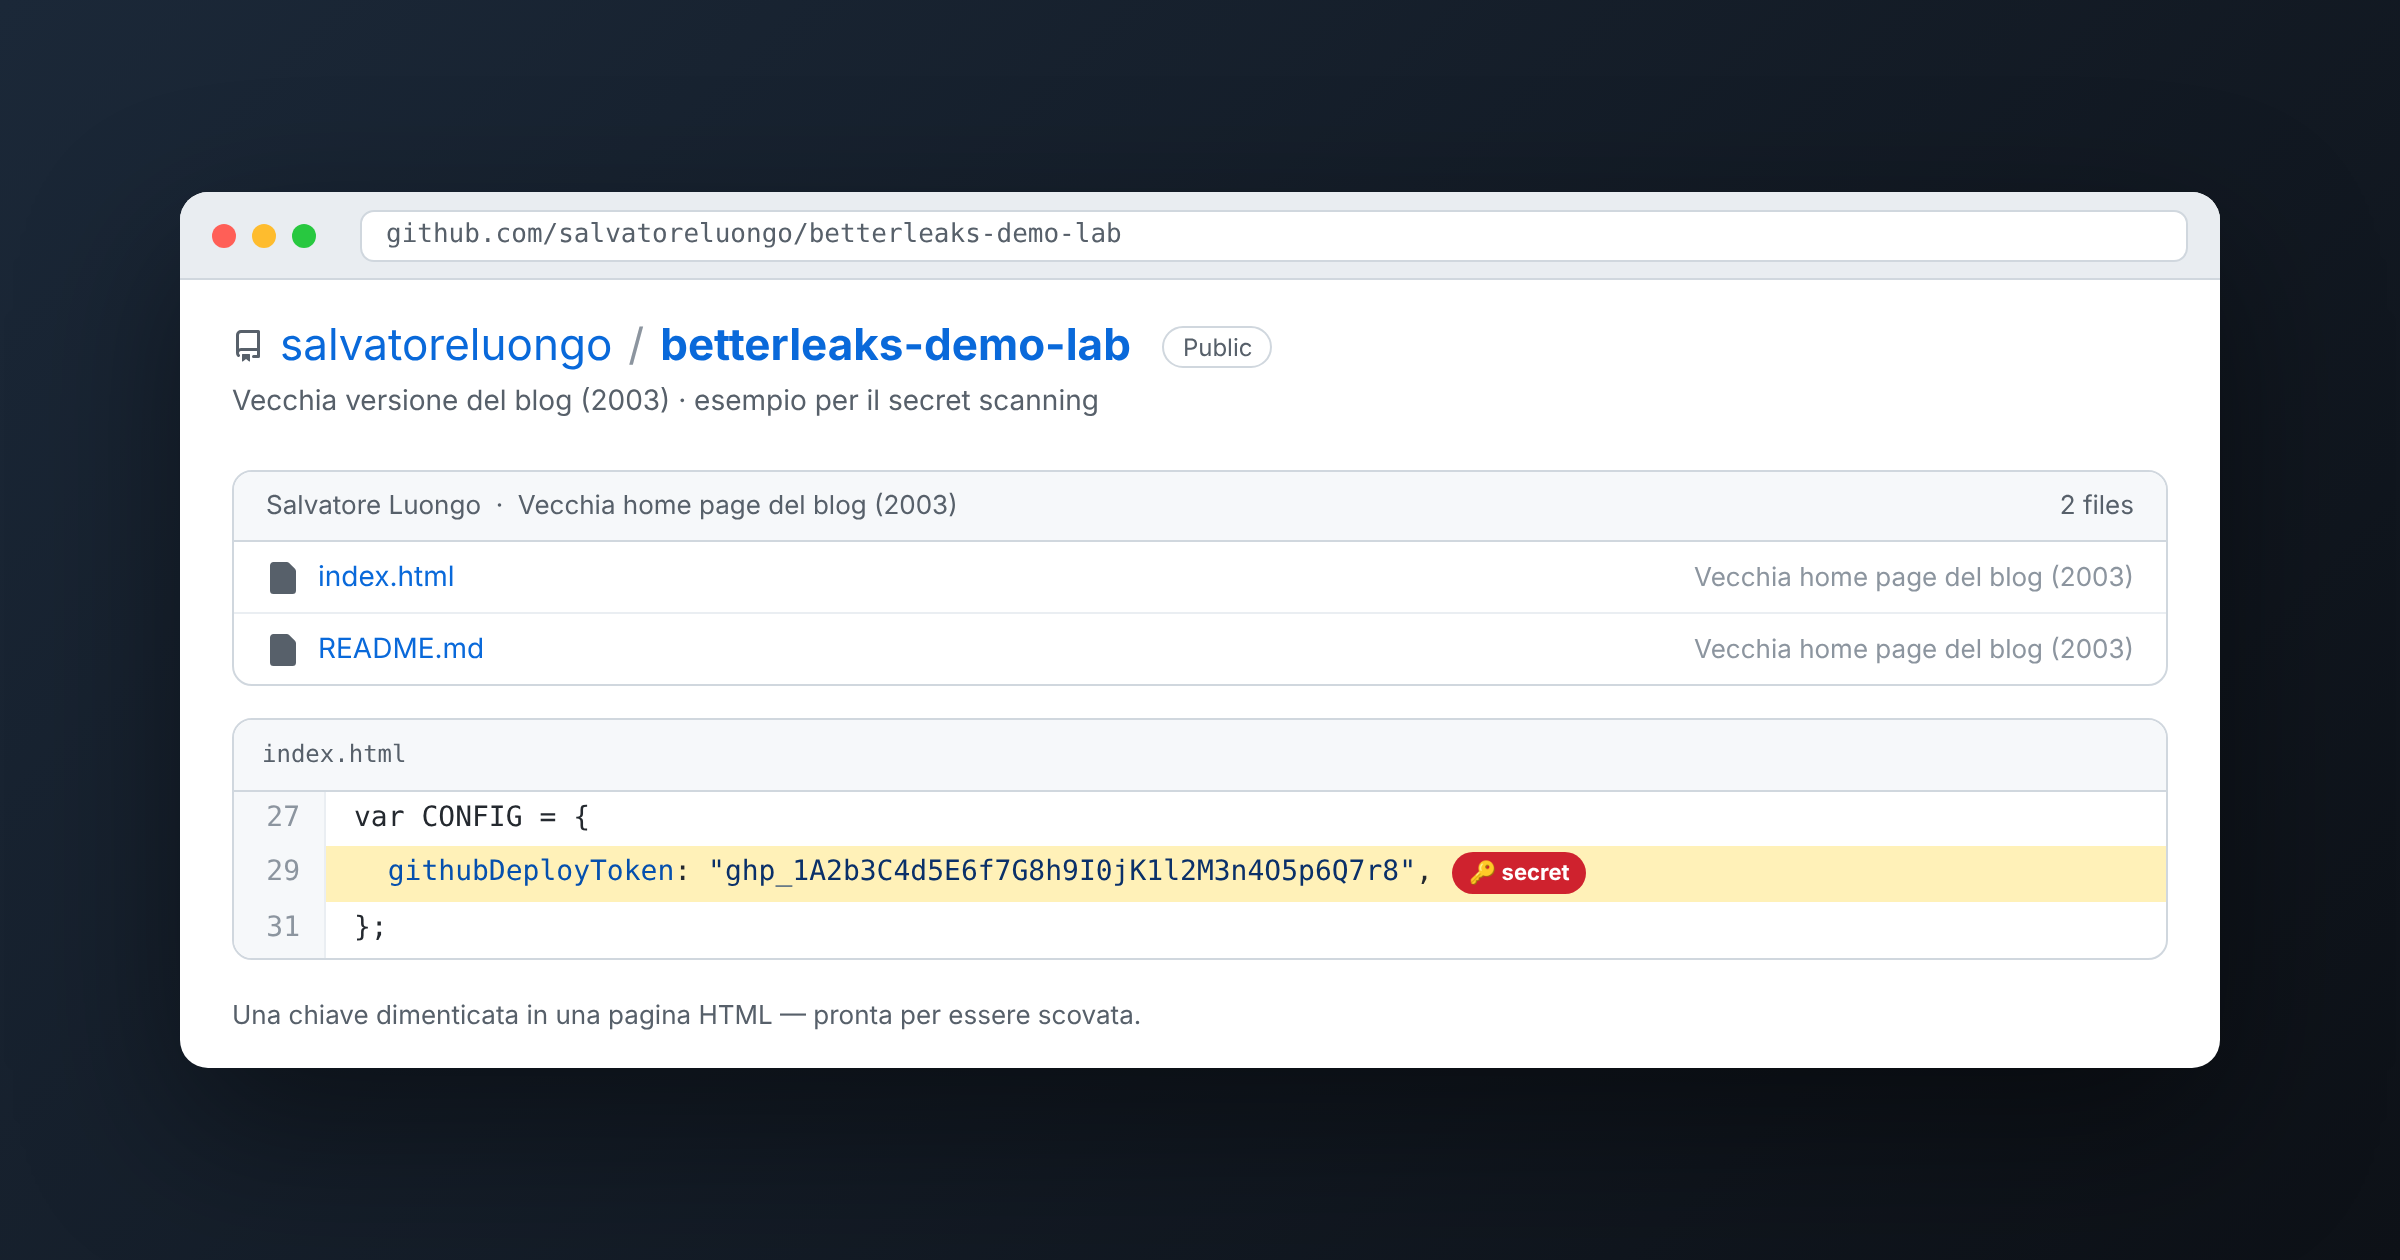
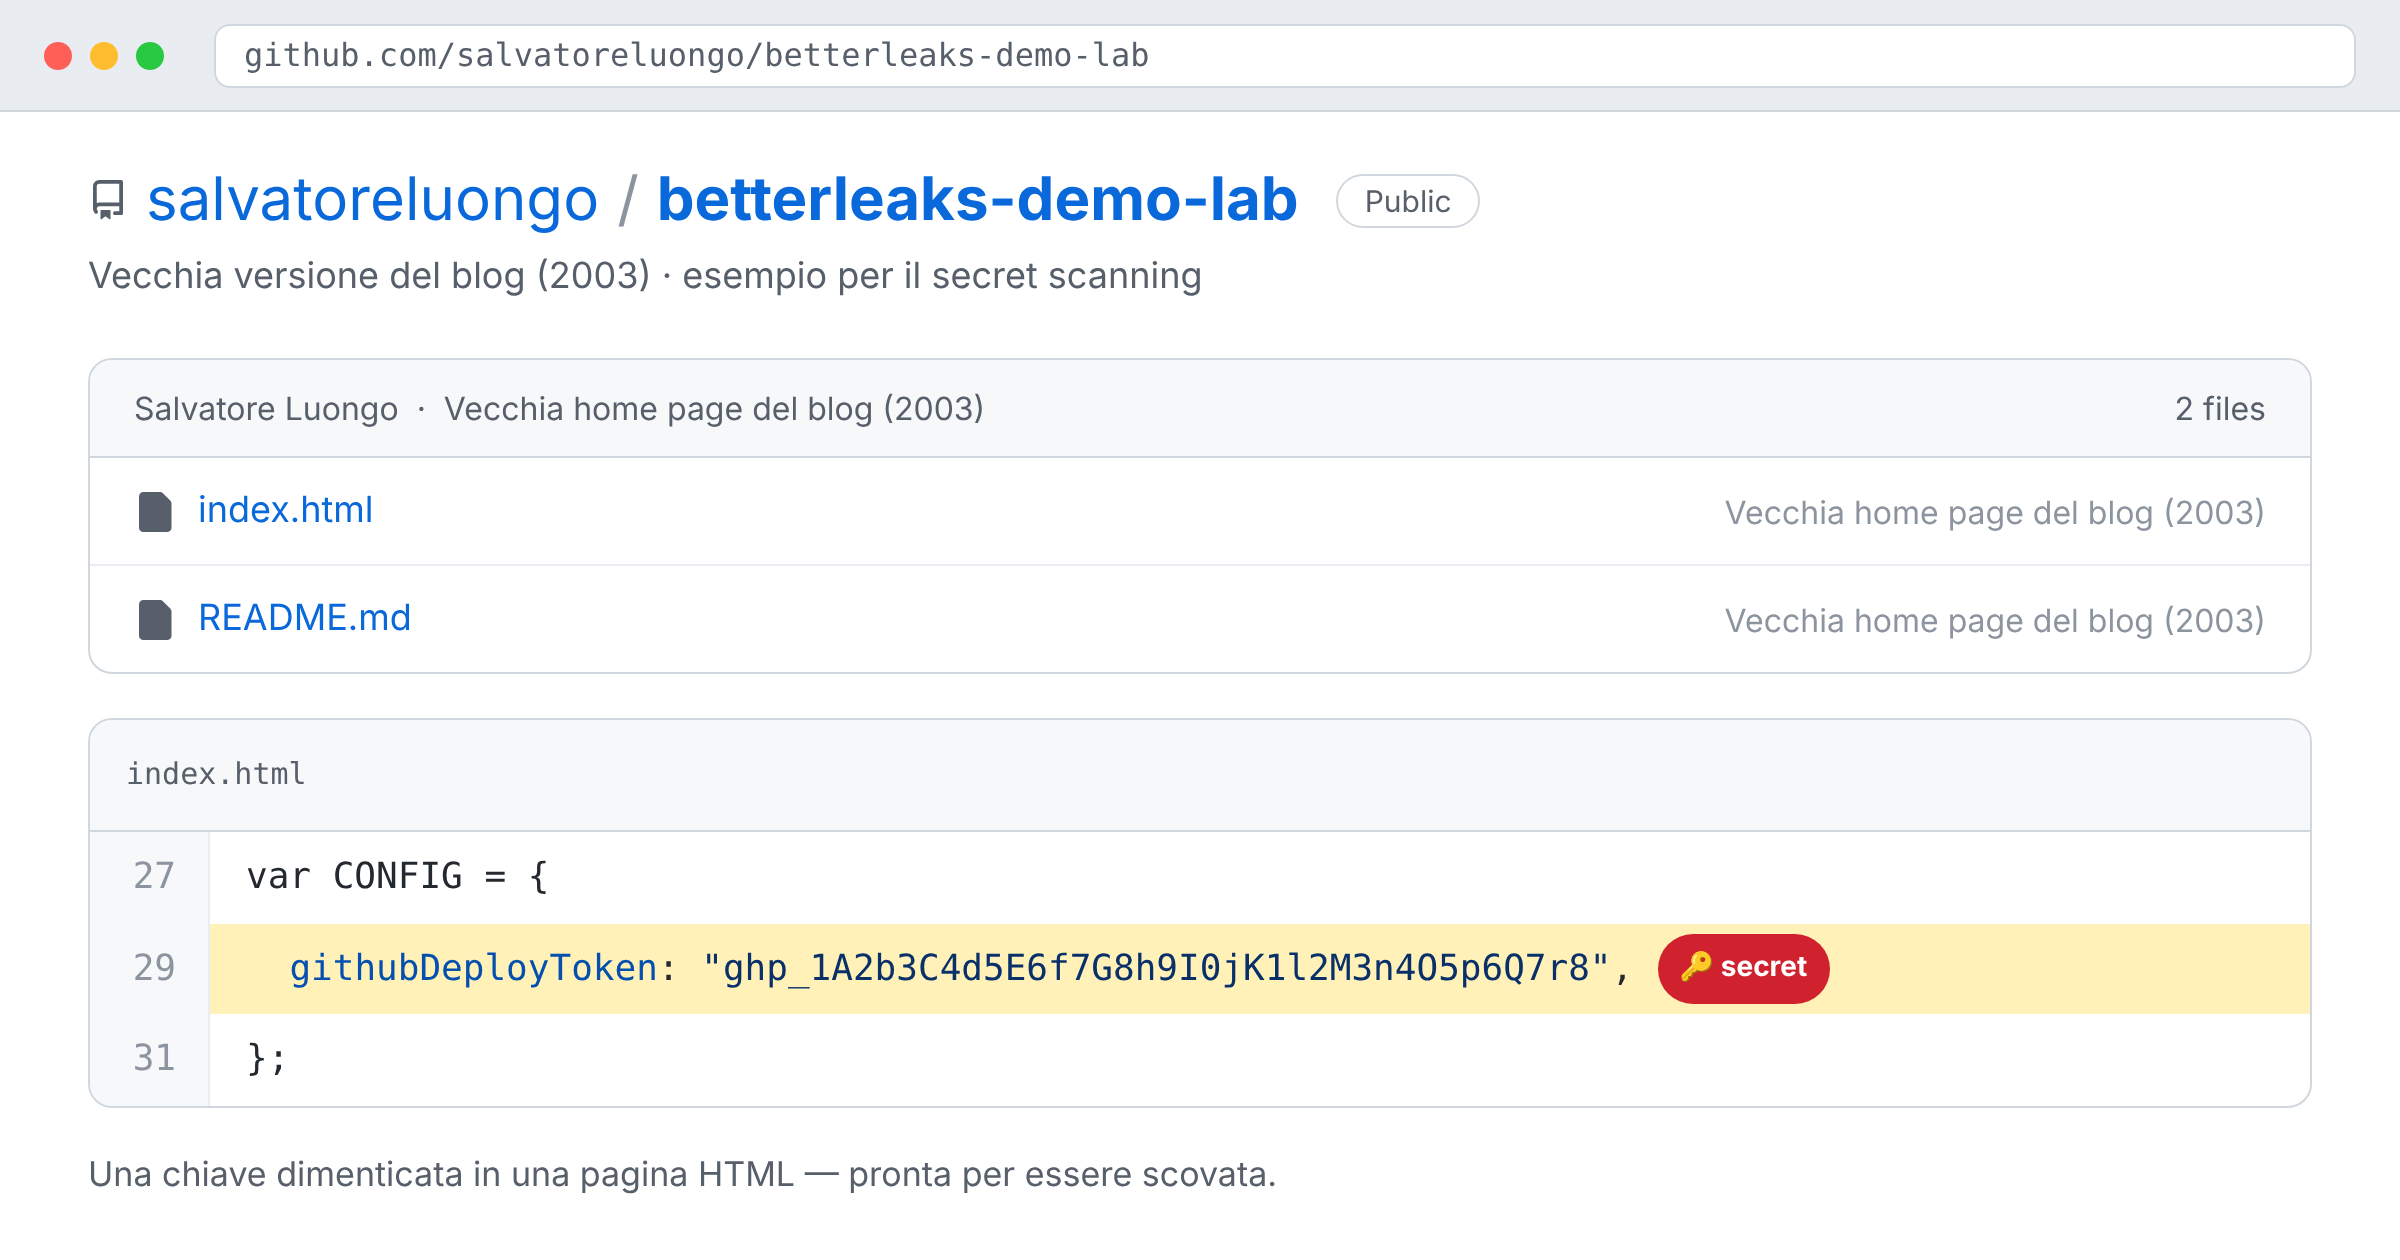
Articolo BetterLeaks: esempio reale (Toyota), terminologia 'secret', copertina a tutto riquadro, via lo spunto

diff --git a/_posts/2026-10-19-scovare-segreti-repository-git.md b/_posts/2026-10-19-scovare-segreti-repository-git.md
@@ -12,20 +12,22 @@ published: false
   02-scan.png, 03-report.png, 04-github.png. Quando è pronto: published: true.
 -->
 
-Per questo articolo ho voluto ricostruire una **vecchia versione del mio blog** — stile 2003, tabelle, contatore delle visite e la home piena di notizie dell'epoca — e nasconderci dentro quello che càpita davvero di dimenticare nel codice: una chiave delle **Google Maps** in chiaro dentro lo `<script>` e un **token per il deploy** su GitHub. Poi ci ho puntato contro uno **scanner di segreti**, per vedere quanto in fretta li tira fuori. È il modo più concreto per capire un problema che riguarda chiunque scriva codice.
+Per questo articolo ho ricostruito una **vecchia versione del mio blog** e ci ho nascosto dentro quello che càpita davvero di dimenticare nel codice: una chiave delle **Google Maps** in chiaro dentro lo `<script>` e un **token di deploy** per GitHub. Poi ci ho puntato contro un **secret scanner**, per vedere quanto in fretta li tira fuori. È il modo più concreto per capire un problema che riguarda chiunque scriva codice.
 
 Il repository di prova che ho creato è pubblico, se vuoi curiosare: [**salvatoreluongo/betterleaks-demo-lab**](https://github.com/salvatoreluongo/betterleaks-demo-lab).
 
 ![La vecchia versione del blog che ho ricreato per la prova, con le chiavi nascoste nel codice](/blog/assets/img/betterleaks/blog-retro.png)
 *La vecchia versione del blog che ho ricreato per la prova, con le chiavi nascoste nel codice*
 
-Capita a tutti, prima o poi: incolli una **chiave API** o una **password** dentro un file per fare una prova veloce, fai il commit, e te ne dimentichi. Magari il giorno dopo la togli — ma è già tardi. In Git, quello che cancelli **resta nella storia** del repository: basta scorrere i vecchi commit per ritrovarlo intatto. Si sono visti casi di chiavi d'accesso a un server rimaste pubbliche su GitHub per **anni**, dentro il codice di un fornitore, senza che nessuno se ne accorgesse.
+Capita a tutti, prima o poi: incolli una **chiave API** o una **password** dentro un file per fare una prova veloce, fai il commit, e te ne dimentichi. Magari il giorno dopo la togli — ma è già tardi. In Git, quello che cancelli **resta nella storia** del repository: basta scorrere i vecchi commit per ritrovarlo intatto.
 
-E non devi nemmeno pubblicare per sbaglio: là fuori ci sono **bot** che scandagliano i repository pubblici 24 ore su 24 proprio in cerca di segreti dimenticati. Una chiave esposta per pochi minuti può bastare.
+E non è un caso di scuola. Nel 2022 **Toyota** ha ammesso che una chiave d'accesso a un server era rimasta pubblica su GitHub per **quasi cinque anni**, finita lì nel codice di un fornitore: nel frattempo erano potenzialmente esposti i dati di circa **300.000 clienti**. Un errore di un attimo, pagato per anni.
 
-La buona notizia è che puoi fare la stessa cosa **tu, prima**: passare al setaccio il tuo codice e stanare i segreti prima che finiscano online. In questo articolo uso **BetterLeaks**, uno scanner veloce che cerca password, token e chiavi di accesso dentro repository e cartelle.
+E non devi nemmeno pubblicare per sbaglio: là fuori ci sono **bot** che scandagliano i repository pubblici 24 ore su 24 proprio in cerca di secret dimenticati. Una chiave esposta per pochi minuti può bastare.
 
-> **Uso responsabile.** Scansiona i **tuoi** repository, o quelli per cui hai un'autorizzazione esplicita. Trovare segreti in progetti altrui e usarli è un reato. Qui l'obiettivo è difensivo: scoprire cosa ci siamo lasciati dietro e correre ai ripari.
+La buona notizia è che puoi fare la stessa cosa **tu, prima**: passare al setaccio il tuo codice e stanare i secret prima che finiscano online. In questo articolo uso **BetterLeaks**, un **secret scanner** veloce che cerca password, token e chiavi di accesso dentro repository e cartelle.
+
+> **Uso responsabile.** Scansiona i **tuoi** repository, o quelli per cui hai un'autorizzazione esplicita. Trovare credenziali in progetti altrui e usarle è un reato. Qui l'obiettivo è difensivo: scoprire cosa ci siamo lasciati dietro e correre ai ripari.
 
 ## Cos'è BetterLeaks
 
@@ -57,12 +59,12 @@ Cloni (o entri in) un repository e lanci la scansione della sua **storia complet
 ./betterleaks git betterleaks-demo-lab
 ```
 
-Per ogni segreto trovato, BetterLeaks ti mostra il **tipo** (chiave Google, token GitHub…), il **file**, la **riga** e il **commit** in cui è comparso, con tanto di livello di confidenza.
+Per ogni secret trovato, BetterLeaks ti mostra il **tipo** (chiave Google, token GitHub…), il **file**, la **riga** e il **commit** in cui è comparso, con tanto di livello di confidenza.
 
 ![Scansione locale: BetterLeaks trova le chiavi nella storia del repository](/blog/assets/img/betterleaks/02-scan.png)
 *Scansione locale della cronologia del repo &mdash; comando: `./betterleaks git betterleaks-demo-lab`*
 
-Un punto importante: BetterLeaks scava in **tutti i commit**, quindi trova i segreti anche nei file che hai *cancellato* in seguito — perché restano comunque nella cronologia. Se invece vuoi controllare solo i file così come sono adesso, usa la modalità cartella con `./betterleaks dir /percorso -v`.
+Un punto importante: BetterLeaks scava in **tutti i commit**, quindi trova le chiavi anche nei file che hai *cancellato* in seguito — perché restano comunque nella cronologia. Se invece vuoi controllare solo i file così come sono adesso, usa la modalità cartella con `./betterleaks dir /percorso -v`.
 
 Per conservare i risultati — cosa quasi obbligatoria in un contesto serio — esporti il report in un file JSON con `-o`:
 
@@ -86,14 +88,14 @@ La parte più comoda: puoi puntare BetterLeaks **direttamente a un repository pu
 ![Scansione online di un repository GitHub direttamente dall'URL](/blog/assets/img/betterleaks/04-github.png)
 *Scansione online dall'URL del repository &mdash; comando: `./betterleaks github https://github.com/salvatoreluongo/betterleaks-demo-lab`*
 
-## Hai trovato un segreto: e adesso?
+## Hai trovato un secret: e adesso?
 
 Questa è la parte che in tanti sbagliano. Se scopri una chiave esposta, **cancellare il commit non basta**: potrebbe essere già stata copiata, e comunque resta nei cloni e nei fork altrui. L'ordine giusto è:
 
 1. **revoca o rigenera** subito la chiave sul servizio che l'ha emessa (Google, GitHub, AWS…): è l'unica mossa che la rende davvero inutile;
-2. solo dopo, **ripulisci la storia** del repository (per esempio con `git filter-repo` o lo strumento BFG) per togliere il segreto dai vecchi commit;
+2. solo dopo, **ripulisci la storia** del repository (per esempio con `git filter-repo` o lo strumento BFG) per togliere il secret dai vecchi commit;
 3. aggiorna i collaboratori, perché dovranno riallineare i loro cloni.
 
 ## In sintesi
 
-Un segreto in un repository è come una chiave di casa lasciata sotto lo zerbino: finché non te ne accorgi, pensi che nessuno la noti. BetterLeaks ti dà il punto di vista di chi quella chiave la cerca — e, usato prima di pubblicare, trasforma un disastro potenziale in un controllo di routine. Se vuoi confrontarlo con altri strumenti dello stesso tipo, i più noti sono **Gitleaks** e **TruffleHog**: la logica è la stessa. La regola d'oro, comunque, resta una sola: **i segreti non si cancellano, si revocano**.
+Un secret in un repository è come una chiave di casa lasciata sotto lo zerbino: finché non te ne accorgi, pensi che nessuno la noti. BetterLeaks ti dà il punto di vista di chi quella chiave la cerca — e, usato prima di pubblicare, trasforma un disastro potenziale in un controllo di routine. Se vuoi confrontarlo con altri strumenti dello stesso tipo, i più noti sono **Gitleaks** e **TruffleHog**: la logica è la stessa. La regola d'oro, comunque, resta una sola: **i secret non si cancellano, si revocano**.
